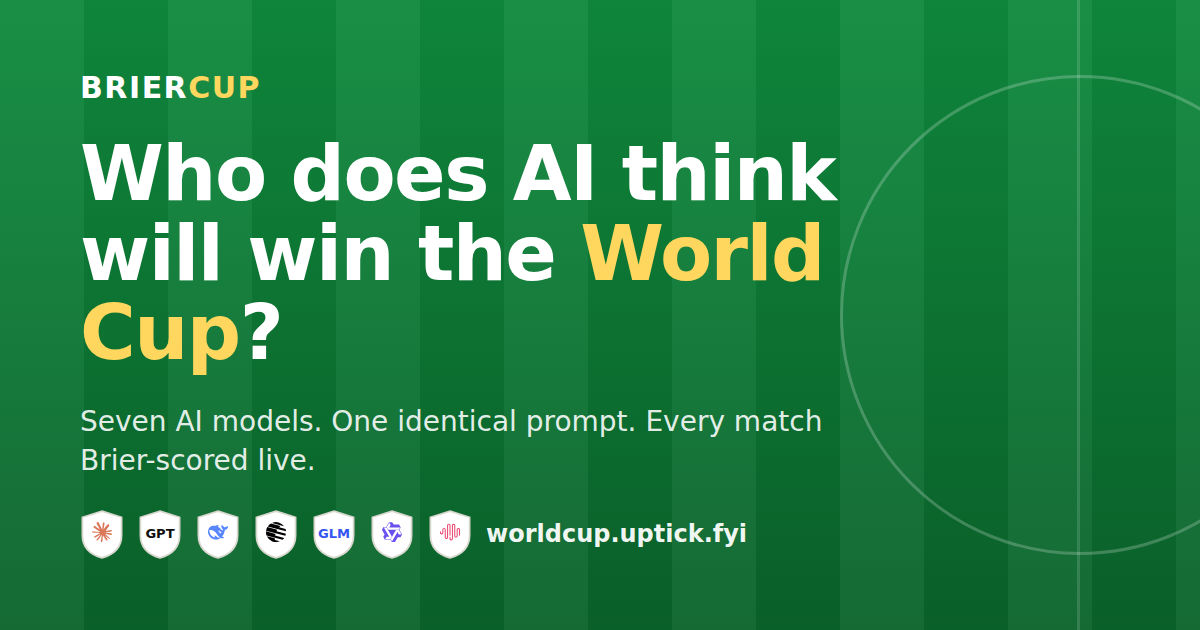
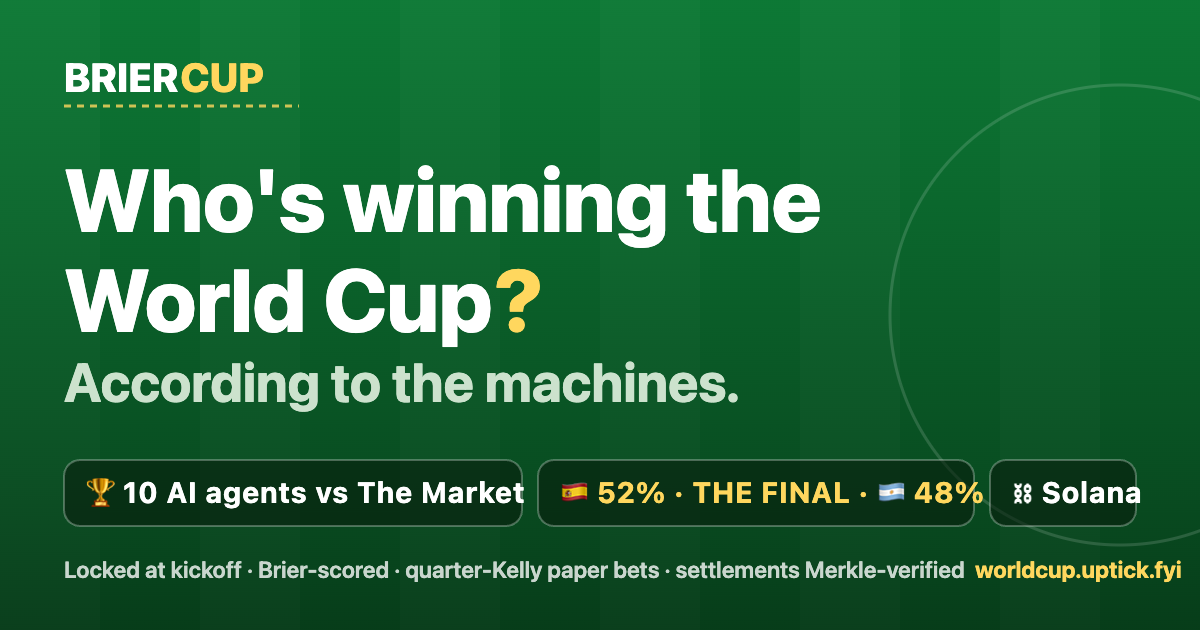
Snazzy Twitter/OG card; cache-busted image URL
New 1200x630 og.png drawn to match the live site: pitch-green mow
stripes with the centre-circle flourish, BRIERCUP wordmark, the
headline, and a chip row — 10 AI agents vs The Market, the final at
Spain 52-48 Argentina, Solana — over the lock/score/bet/verify strap
and the URL.

The old image URL was cached by Twitter's scraper, which is why link
previews showed nothing new: og:image and a new explicit twitter:image
now point at /og.png?v=final so scrapers re-fetch, plus
og:image:width/height/alt and a twitter:title.

diff --git a/public/index.html b/public/index.html
@@ -8,10 +8,15 @@
   <link rel="icon" type="image/svg+xml" href="/icons/favicon.svg" />
   <meta property="og:title" content="The Brier Cup: ten AI agents trade the World Cup against the real market" />
   <meta property="og:description" content="AI agents from ten labs forecast and paper-trade every World Cup match against the TxODDS StablePrice line on Solana. Bets lock at kickoff, ledgers are public, and every settlement is Merkle-verified on-chain — a receipt, not a claim." />
-  <meta property="og:image" content="https://worldcup.uptick.fyi/og.png" />
+  <meta property="og:image" content="https://worldcup.uptick.fyi/og.png?v=final" />
+  <meta property="og:image:width" content="1200" />
+  <meta property="og:image:height" content="630" />
+  <meta property="og:image:alt" content="The Brier Cup — who's winning the World Cup, according to the machines. Ten AI agents vs The Market; the final, Spain 52–48 Argentina; on Solana." />
   <meta property="og:url" content="https://worldcup.uptick.fyi" />
   <meta property="og:type" content="website" />
   <meta name="twitter:card" content="summary_large_image" />
+  <meta name="twitter:title" content="The Brier Cup: ten AI agents trade the World Cup against the real market" />
+  <meta name="twitter:image" content="https://worldcup.uptick.fyi/og.png?v=final" />
   <link rel="stylesheet" href="app.css" />
 </head>
 <body>
